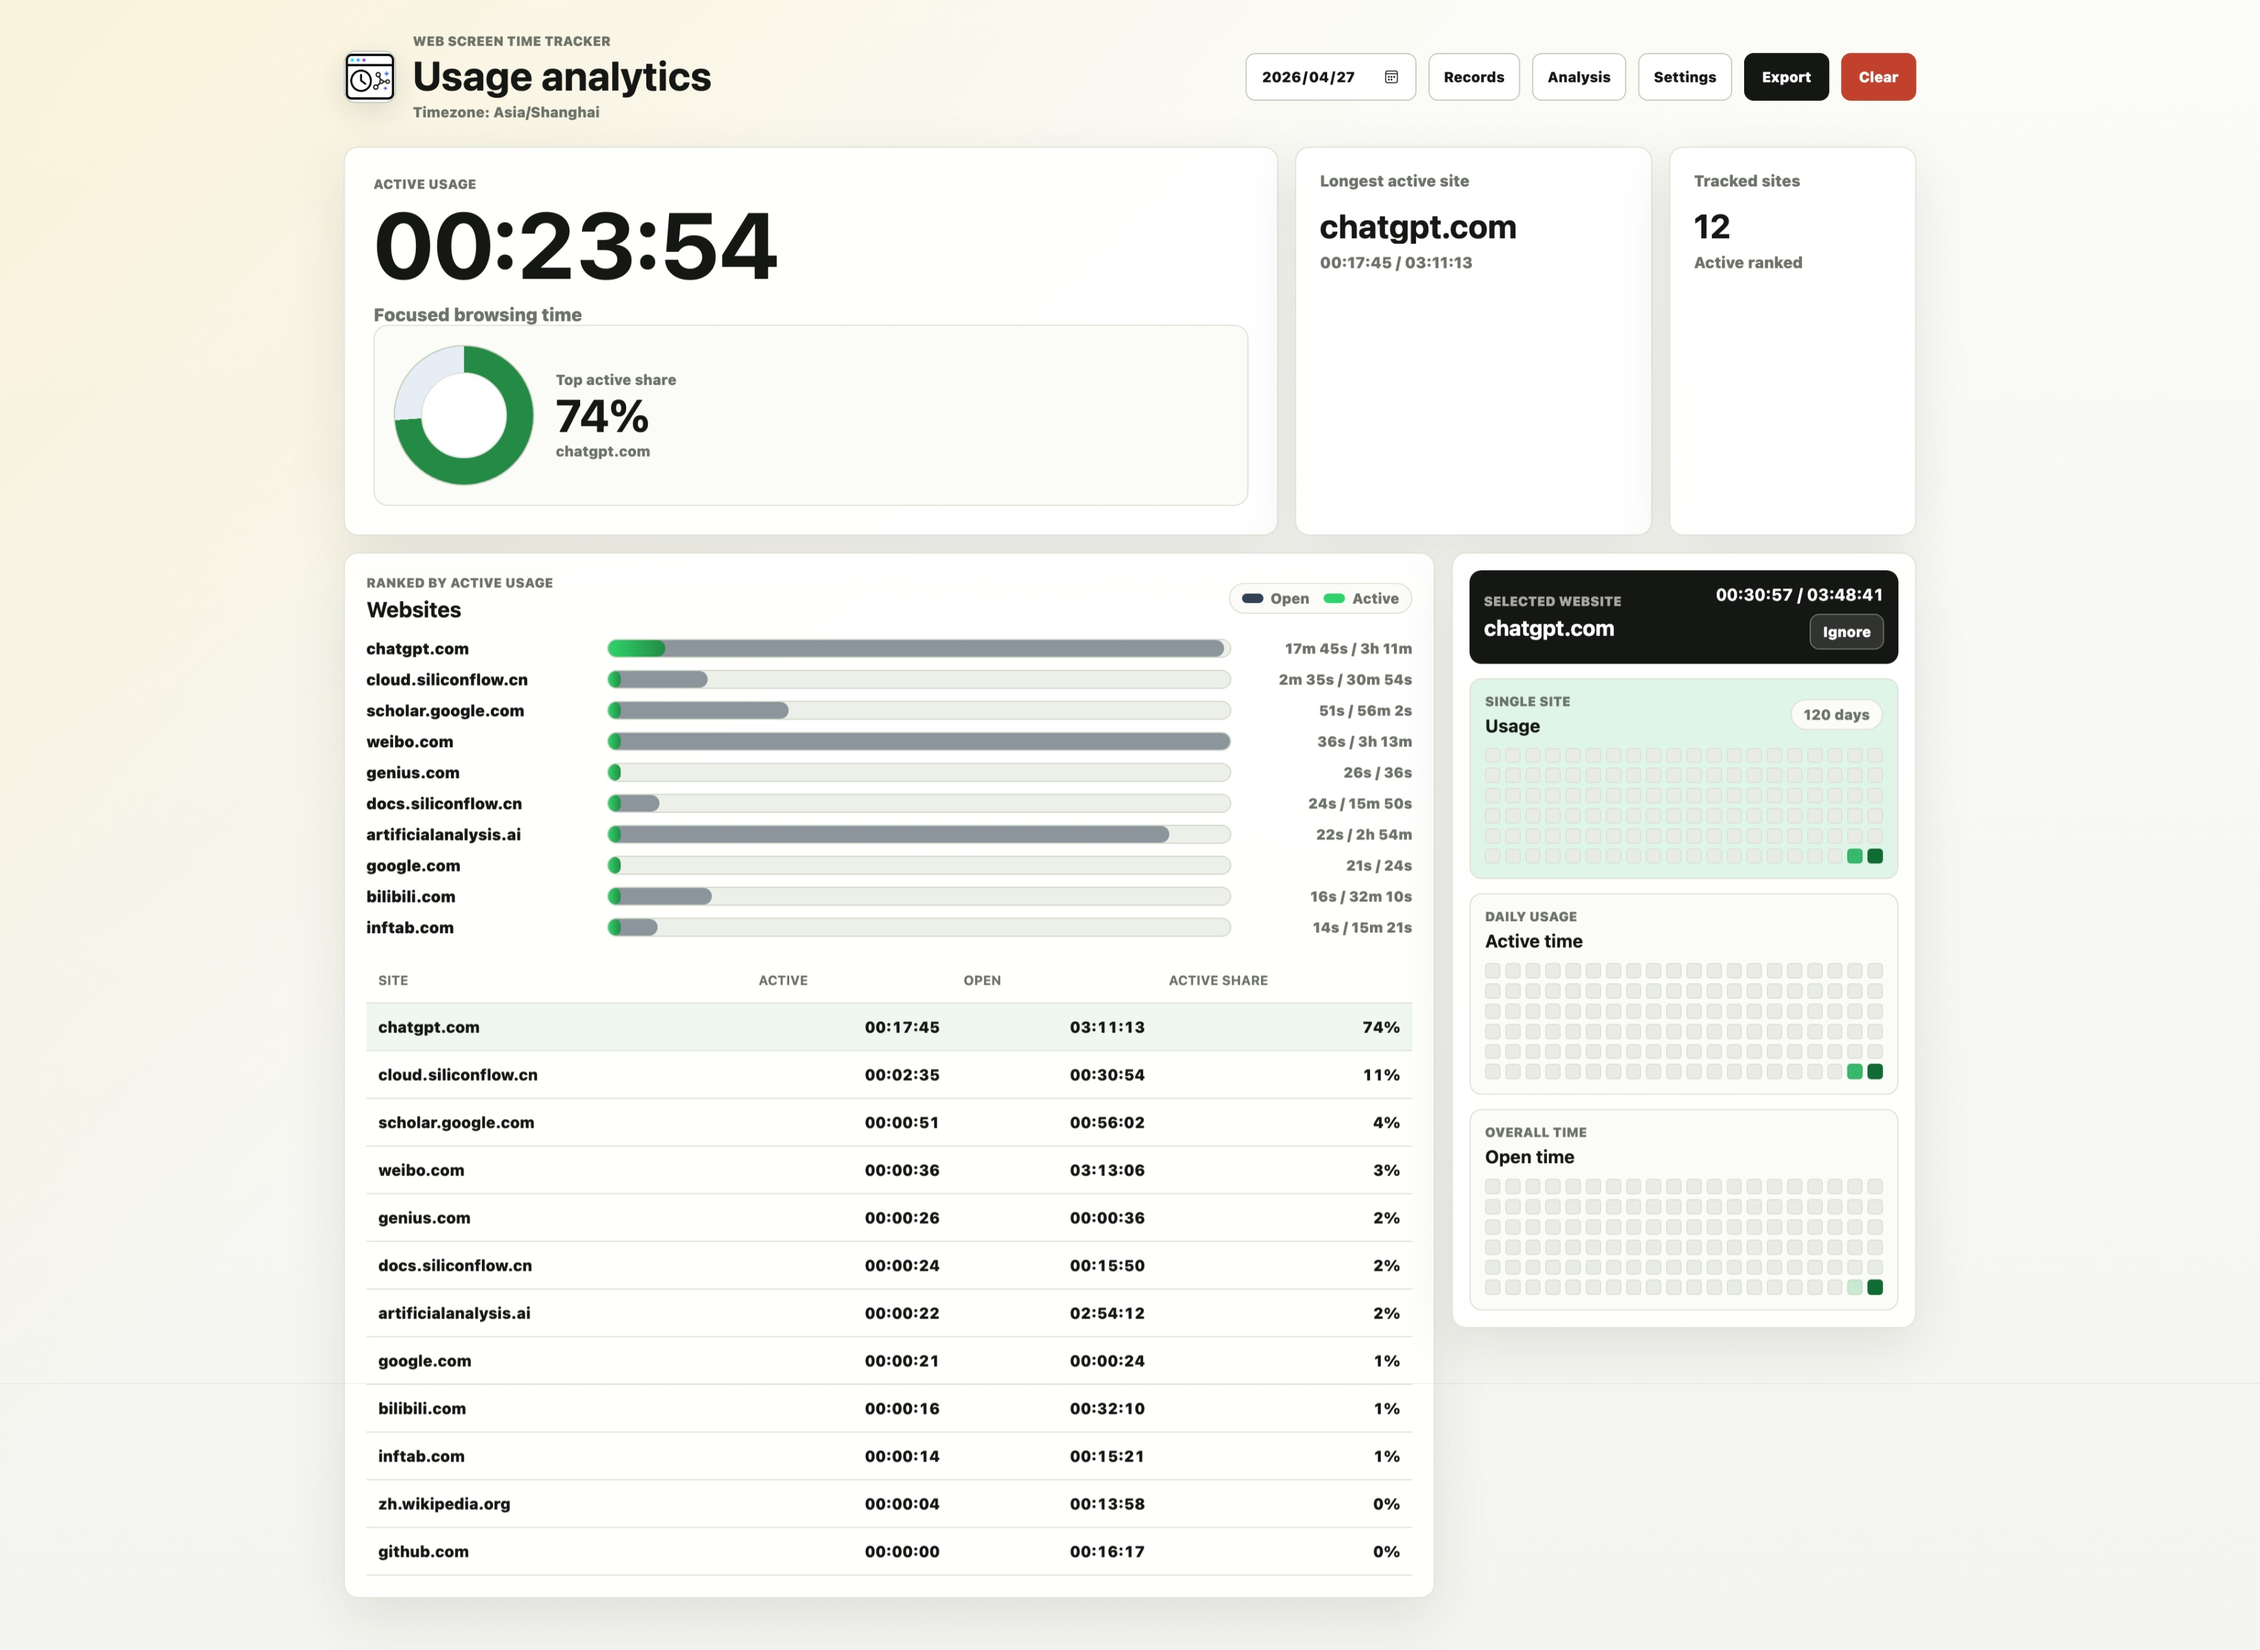
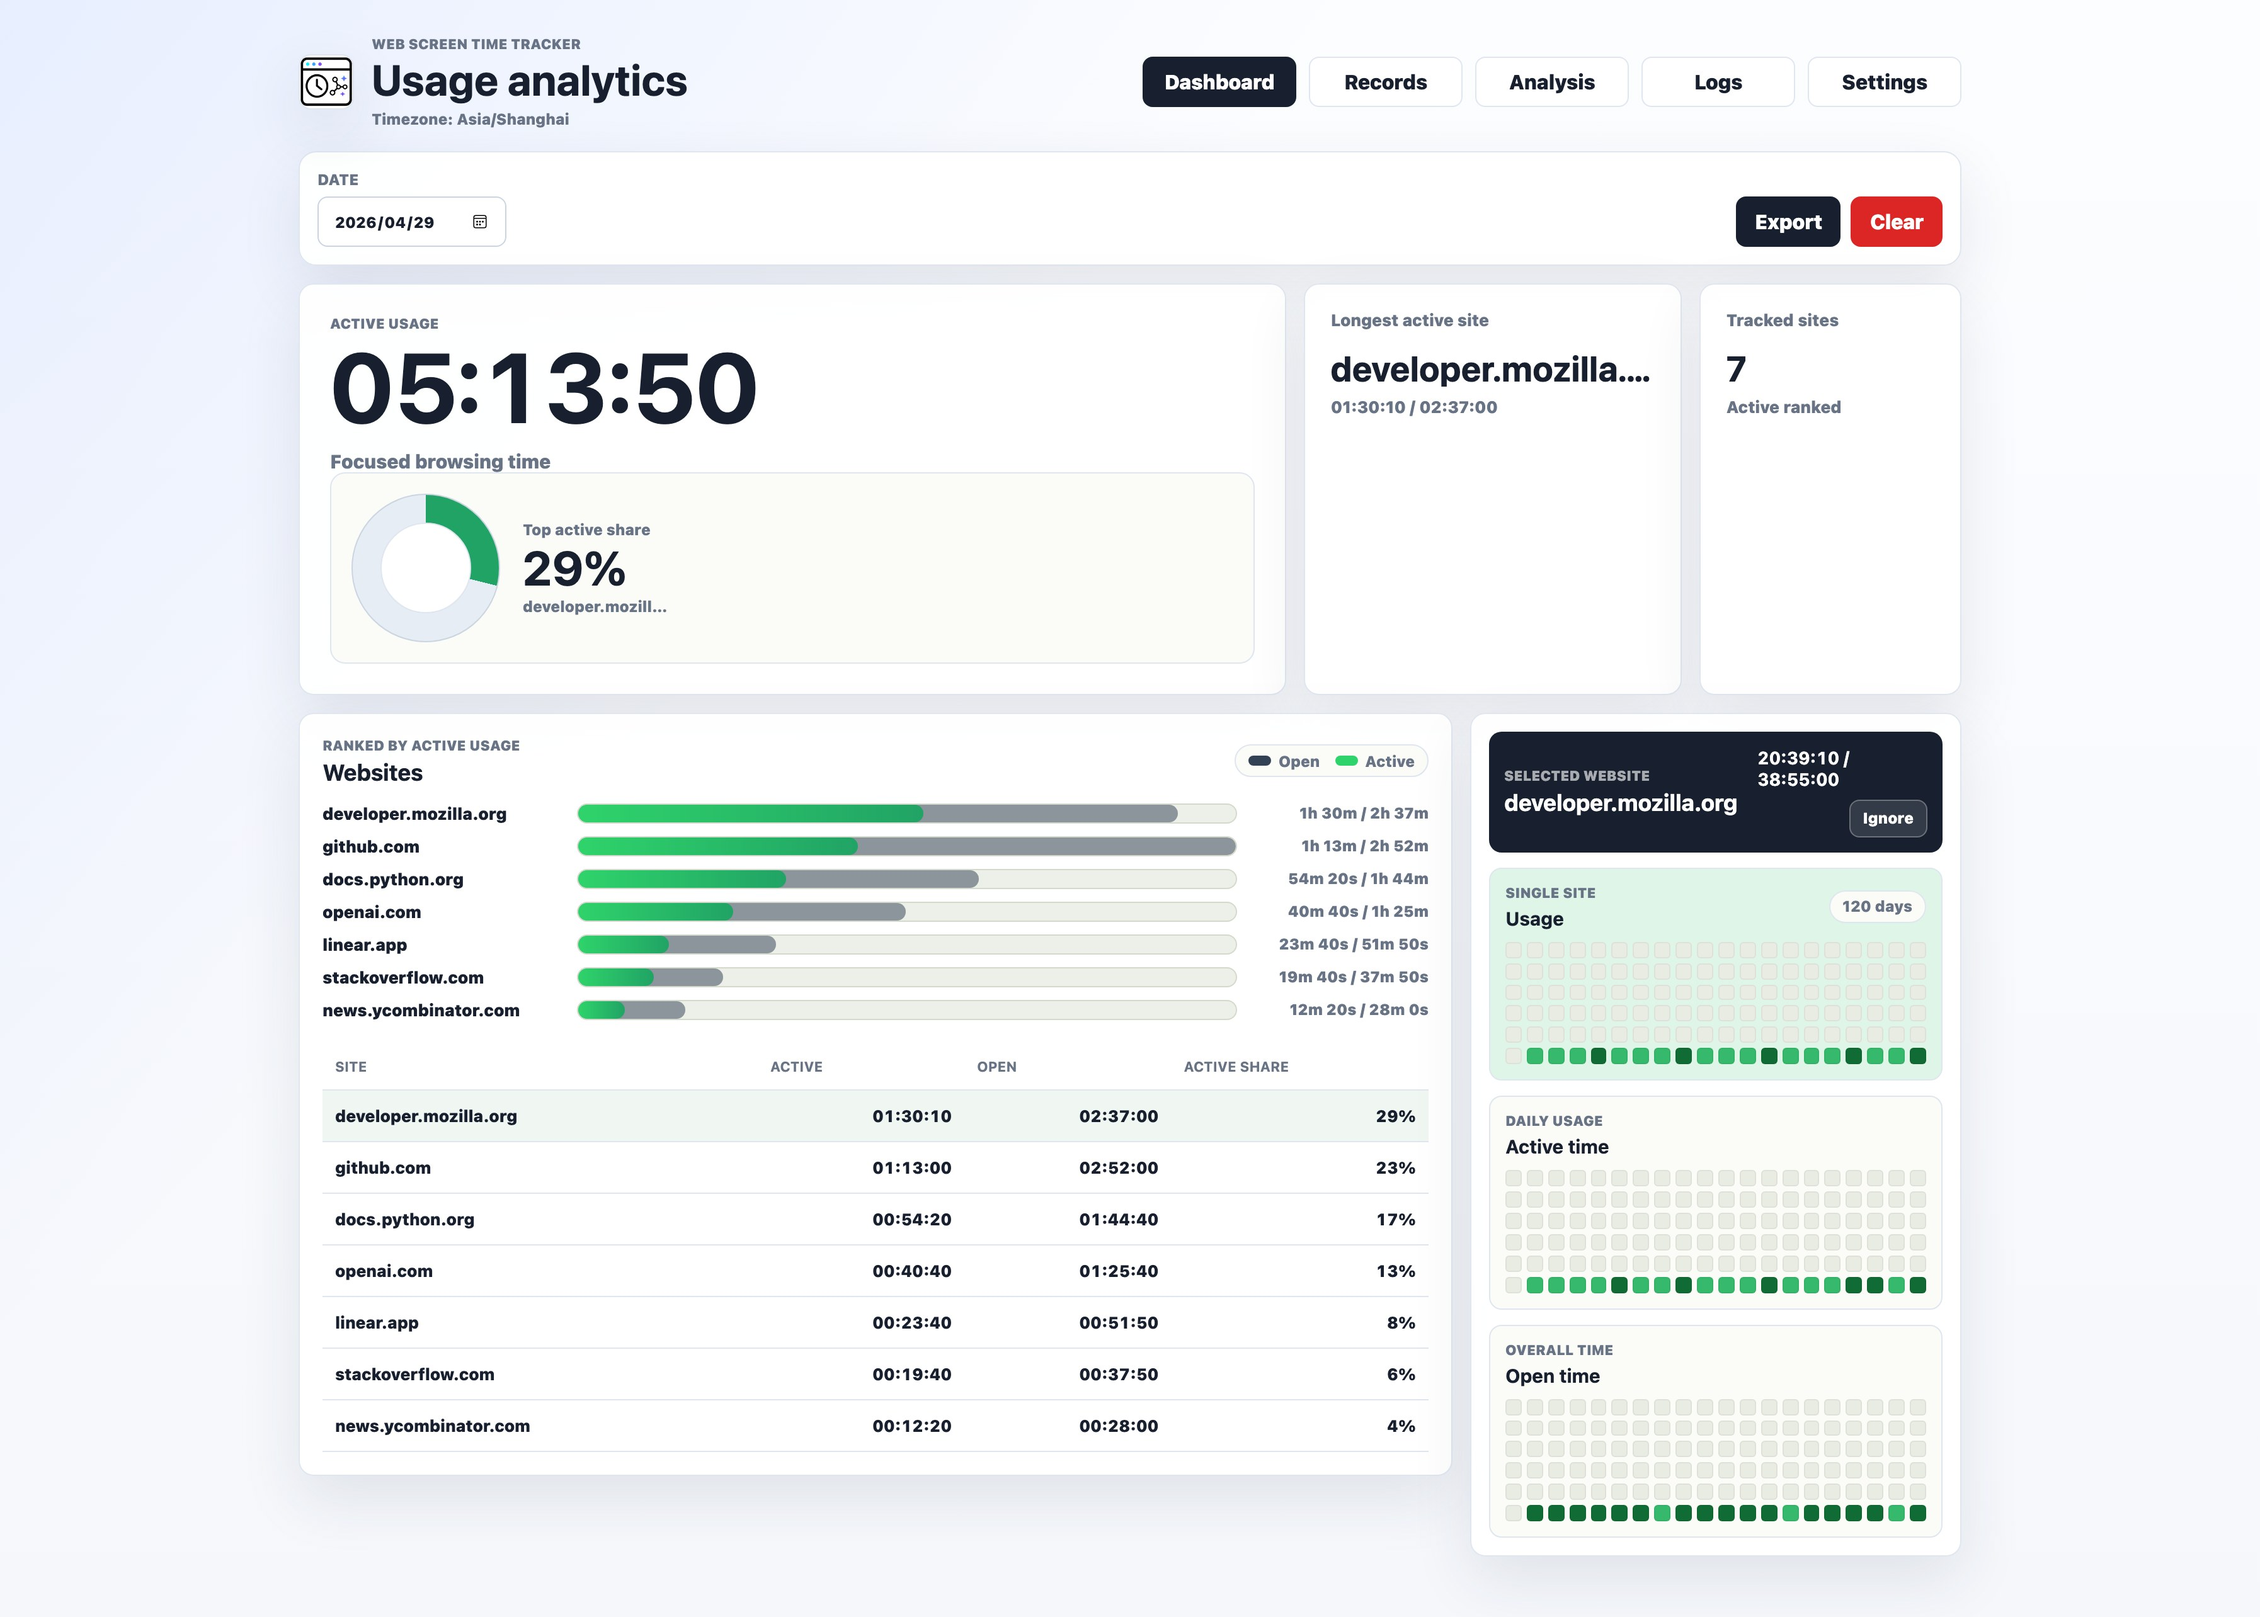
Refresh README screenshots and markdown preview docs

diff --git a/logs/logs.css b/logs/logs.css
@@ -202,6 +202,10 @@ label {
   background: var(--red-soft);
 }
 
+.confirmBar[hidden] {
+  display: none;
+}
+
 .confirmBar span {
   margin-right: auto;
   color: var(--red);

diff --git a/README.md b/README.md
@@ -8,25 +8,40 @@ It is built for people who use the browser as a daily workspace: reading, search
 
 ## Screenshots
 
-More screenshots are available in [`docs/screenshots/`](docs/screenshots/).
+One representative screenshot is shown for each primary page. Analysis reports are rendered directly in the browser as Markdown, including headings, lists, tables, inline code, and emphasis. More capture notes are available in [`docs/SCREENSHOTS.md`](docs/SCREENSHOTS.md).
 
-### Popup
-
-<p align="center">
-  <img src="docs/screenshots/popup2.png" alt="Popup screenshot" width="320" />
-</p>
-
-### Dashboard
-
-<p align="center">
-  <img src="docs/screenshots/dashboard.jpeg" alt="Dashboard screenshot" width="560" />
-</p>
-
-### Records
-
-<p align="center">
-  <img src="docs/screenshots/records.jpeg" alt="Records screenshot" width="560" />
-</p>
+<table>
+  <tr>
+    <td width="38%" valign="top">
+      <strong>Popup</strong><br>
+      <img src="docs/screenshots/popup.png" alt="Popup screenshot" width="320" />
+    </td>
+    <td width="62%" valign="top">
+      <strong>Dashboard</strong><br>
+      <img src="docs/screenshots/dashboard.jpeg" alt="Dashboard screenshot" width="100%" />
+    </td>
+  </tr>
+  <tr>
+    <td width="50%" valign="top">
+      <strong>Records</strong><br>
+      <img src="docs/screenshots/records.jpeg" alt="Records screenshot" width="100%" />
+    </td>
+    <td width="50%" valign="top">
+      <strong>Analysis with Markdown Preview</strong><br>
+      <img src="docs/screenshots/analysis.jpeg" alt="Analysis screenshot with Markdown-rendered report" width="100%" />
+    </td>
+  </tr>
+  <tr>
+    <td width="50%" valign="top">
+      <strong>Logs</strong><br>
+      <img src="docs/screenshots/logs.jpeg" alt="Logs screenshot" width="100%" />
+    </td>
+    <td width="50%" valign="top">
+      <strong>Settings</strong><br>
+      <img src="docs/screenshots/settings.jpeg" alt="Settings screenshot" width="100%" />
+    </td>
+  </tr>
+</table>
 
 ## Core Features
 
@@ -37,7 +52,7 @@ More screenshots are available in [`docs/screenshots/`](docs/screenshots/).
 - Dashboard for active share, open/active comparison, heatmaps, and per-site details.
 - Records page for browsing history, summary JSON, model status, and token usage.
 - Settings page for provider presets, prompts, API tests, ignored domains, local archive, WebDAV, and export.
-- Analysis page for day/week/month behavior reports with Markdown preview, evidence charts, trends, and frequent themes.
+- Analysis page for day/week/month behavior reports with in-browser Markdown rendering, evidence charts, trends, and frequent themes.
 - Automatic page summaries through OpenAI-compatible chat completion APIs.
 - Screenshot fallback for pages where DOM text capture is blocked.
 - Local archive for records and analysis reports, with optional WebDAV mirror backup.
@@ -108,7 +123,7 @@ The Analysis page generates day, week, and month reports from:
 - summary evidence levels and capture methods
 - model token usage where available
 
-Reports are rendered as Markdown and support headings, lists, code blocks, inline code, bold text, and tables. Evidence and trend charts are shown above the report list, and frequent themes are shown as a full-width visual section.
+Reports are rendered online in the Analysis page as Markdown and support headings, lists, code blocks, inline code, bold text, and tables. Evidence and trend charts are shown above the report list, and frequent themes are shown as a full-width visual section.
 
 The analysis model can be configured separately from the summary model, so a cheaper model can summarize pages while a stronger model analyzes longer-term behavior.
 
@@ -222,7 +237,8 @@ edge-screen-time-tracker/
 ├── assets/
 ├── docs/
 │   ├── assets/
-│   └── screenshots/
+│   ├── screenshots/
+│   └── SCREENSHOTS.md
 ├── README.md
 └── README.zh-CN.md
 ```

diff --git a/docs/SCREENSHOTS.md b/docs/SCREENSHOTS.md
@@ -1,0 +1,63 @@
+# Screenshot Guide
+
+[中文](../README.zh-CN.md) | [English](../README.md)
+
+Product screenshots live in `docs/screenshots/`. General documentation assets, such as the app logo, live in `docs/assets/`.
+
+## Files
+
+- `docs/assets/logo.png`
+- `docs/screenshots/popup.png`
+- `docs/screenshots/dashboard.jpeg`
+- `docs/screenshots/records.jpeg`
+- `docs/screenshots/analysis.jpeg`
+- `docs/screenshots/logs.jpeg`
+- `docs/screenshots/settings.jpeg`
+
+## Gallery
+
+<table>
+  <tr>
+    <td width="38%" valign="top">
+      <strong>Popup</strong><br>
+      <img src="screenshots/popup.png" alt="Popup screenshot" width="320" />
+    </td>
+    <td width="62%" valign="top">
+      <strong>Dashboard</strong><br>
+      <img src="screenshots/dashboard.jpeg" alt="Dashboard screenshot" width="100%" />
+    </td>
+  </tr>
+  <tr>
+    <td width="50%" valign="top">
+      <strong>Records</strong><br>
+      <img src="screenshots/records.jpeg" alt="Records screenshot" width="100%" />
+    </td>
+    <td width="50%" valign="top">
+      <strong>Analysis with Markdown Preview</strong><br>
+      <img src="screenshots/analysis.jpeg" alt="Analysis screenshot with Markdown-rendered report" width="100%" />
+    </td>
+  </tr>
+  <tr>
+    <td width="50%" valign="top">
+      <strong>Logs</strong><br>
+      <img src="screenshots/logs.jpeg" alt="Logs screenshot" width="100%" />
+    </td>
+    <td width="50%" valign="top">
+      <strong>Settings</strong><br>
+      <img src="screenshots/settings.jpeg" alt="Settings screenshot" width="100%" />
+    </td>
+  </tr>
+</table>
+
+## Capture Standard
+
+- Replace existing files in place when the UI changes, so README links stay stable.
+- Capture the popup at its natural extension size. Keep `popup.png` as the primary README popup image.
+- Capture one full-page desktop screenshot for each primary page: dashboard, records, analysis, logs, and settings.
+- Use publishable data only: demo data, sanitized real examples, or screenshots explicitly approved for public display. Never include API keys, passwords, or other credentials.
+- Prefer PNG for small UI surfaces like popup screens. JPEG is fine for large full-page screenshots.
+- Keep images sharp enough for README display; avoid browser chrome unless it is needed to explain the UI.
+
+## README Display Rule
+
+The main README files embed one screenshot for each primary page: popup, dashboard, records, analysis, logs, and settings. Use a compact table layout so the README stays scannable, and keep filenames stable so rendering does not break when screenshots are refreshed.
